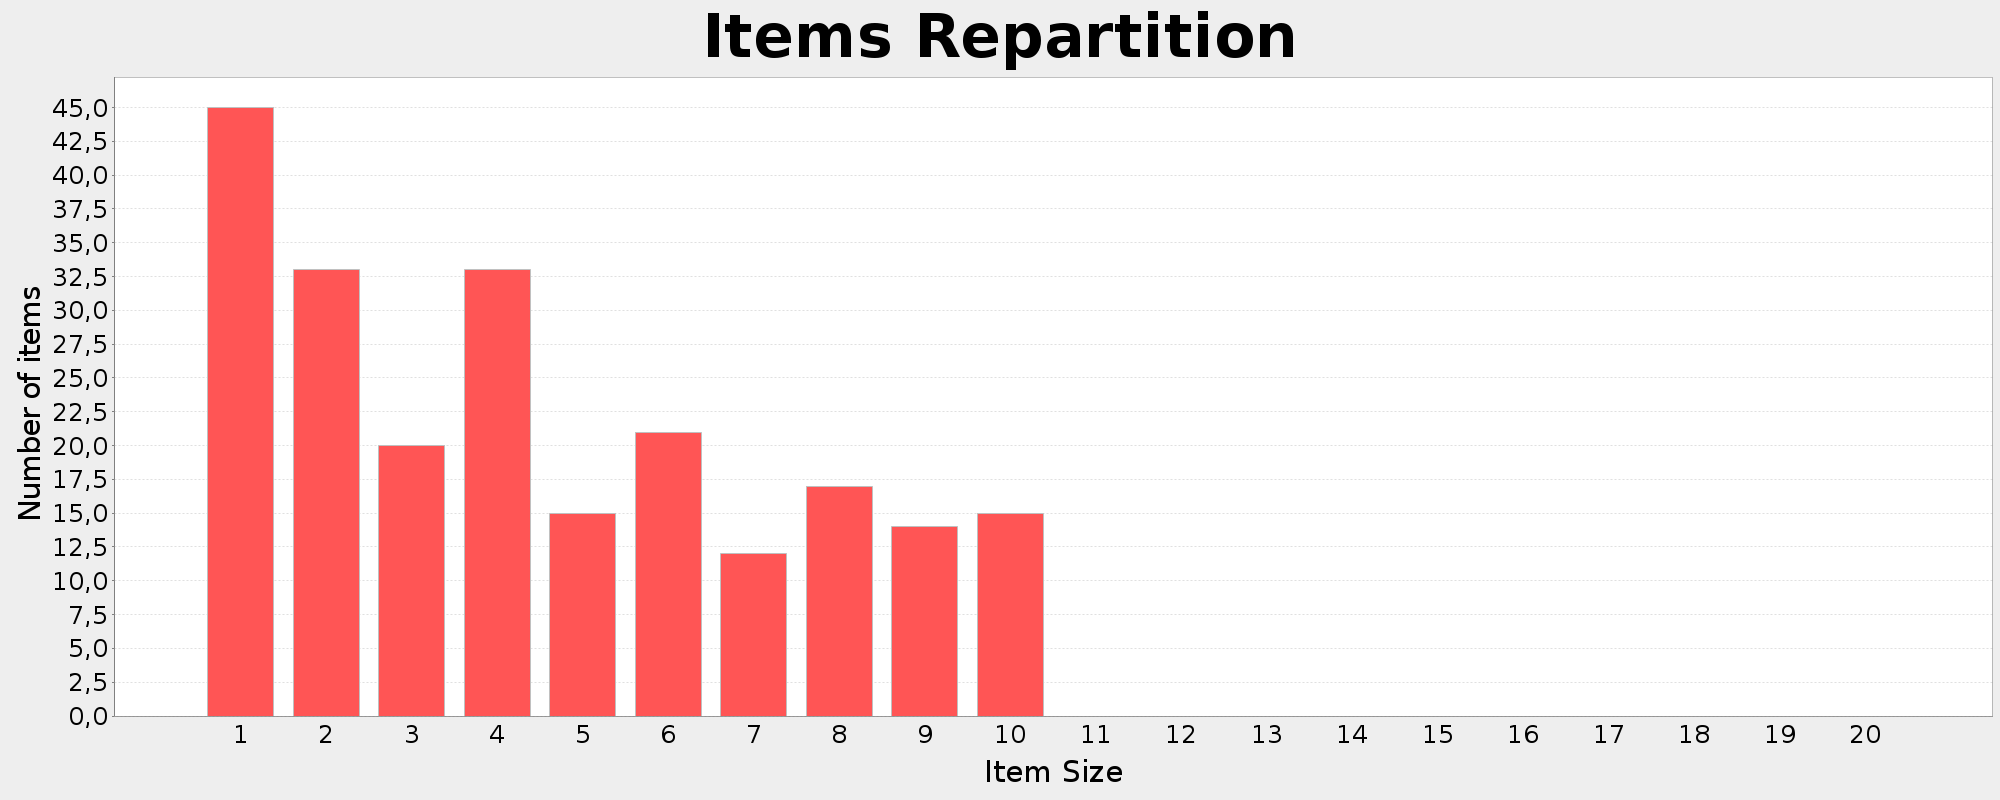
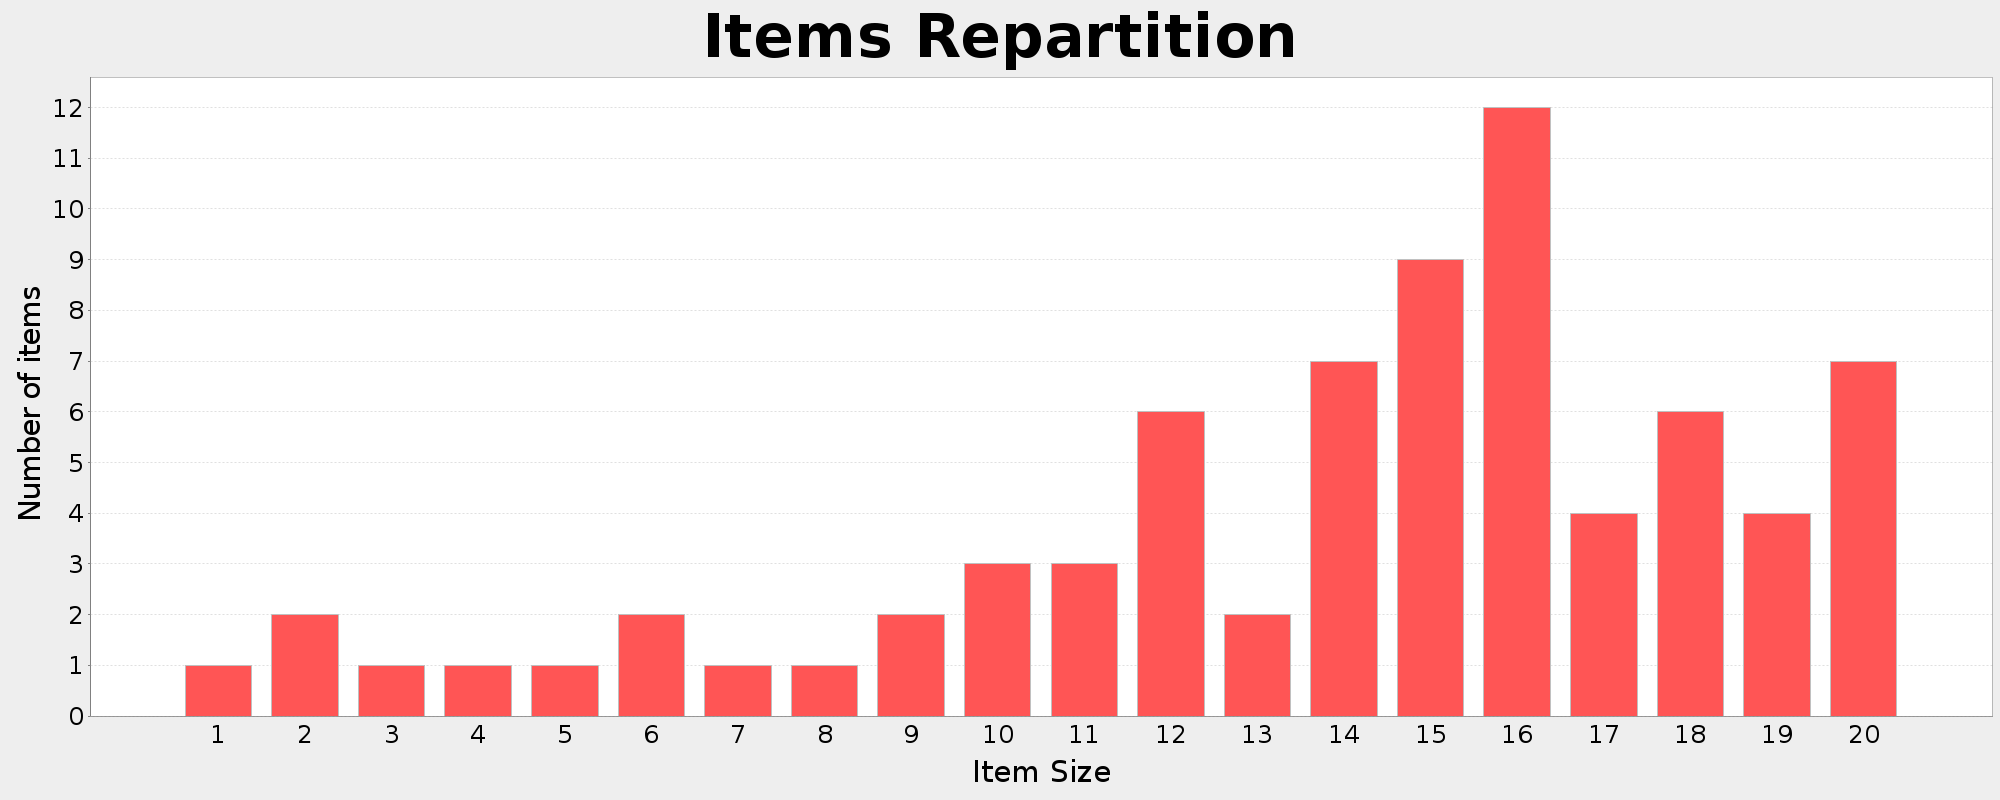
_

Changed region(s): [[0.093, 0.125, 0.961, 1.0], [0.031, 0.125, 0.062, 0.9062]]

diff --git a/CeiCloud/src/VSCIFP/gens/LinearVSCIFPGenerator.java b/CeiCloud/src/VSCIFP/gens/LinearVSCIFPGenerator.java
@@ -10,9 +10,9 @@ import VSCIFP.VSCIFP;
 import VSCIFP.VSCIFPInstance;
 import VSCIFP.VSCIFPSolution;
 import VSCIFP.algs.Item;
+import VSCIFP.algs.SolutionItem;
 
 import common.Utils;
-import common.VizUtils;
 import common.problem.InputDataException;
 
 public class LinearVSCIFPGenerator extends VSCIFPGenerator{
@@ -27,56 +27,56 @@ public class LinearVSCIFPGenerator extends VSCIFPGenerator{
 	public VSCIFPInstance generateInstance() throws InputDataException {
 		instanceCount++;
 		//USES FIRSTFIT FOR NOW !
-		VSCIFPInstance i = new VSCIFPInstance(getProblem());
-		i.setOptimalSolution(new VSCIFPSolution(null, i));
+		VSCIFPInstance ins = new VSCIFPInstance(getProblem());
+		ins.setOptimalSolution(new VSCIFPSolution(null, ins));
 		
 		//For the largest bin, capacity = cost = maxBinCapacity
-		i.binTypes.add(new BinType(getProblem().getMaxBinCapacity(), getProblem().getMaxBinCapacity()));
+		ins.binTypes.add(new BinType(getProblem().getMaxBinCapacity(), getProblem().getMaxBinCapacity()));
 		//For other bins, 
-		while (i.binTypes.size() < getProblem().getTypesOfBinCount()) { // TODO Can last a while !
+		while (ins.binTypes.size() < getProblem().getTypesOfBinCount()) { // TODO Can last a while !
 			int n = nextInt(1, getProblem().getMaxBinCapacity() - 1); // uniform number in [1, maxBinCapacity - 1].
-			i.binTypes.add(new BinType(n, n)); //Linear cost
+			ins.binTypes.add(new BinType(n, n)); //Linear cost
 		}
 		
 		//On ouvre une bin de chaque type.
 		List<Bin> openBins = new ArrayList<>();
-		for (BinType type : i.binTypes) {
+		for (BinType type : ins.binTypes) {
 			openBins.add(new Bin(type));
 		}
-		i.getOptimalSolution().setOpenBins(openBins);
+		ins.getOptimalSolution().setOpenBins(openBins);
 		
-		System.out.println(i.binTypes);
+		System.out.println(ins.binTypes);
 
 		//Cycling bounded Iterator used for openBins
-		Iterator<Bin> openBinsIt = Utils.oneCycleIt(i.getOptimalSolution().getOpenBins(), 0);
+		Iterator<Bin> openBinsIt = Utils.oneCycleIt(ins.getOptimalSolution().getOpenBins(), 0);
 
 		//On remplit les sacs avec des objets jusqu'à ce que le prix du packing vale getMaxPackingCost().
 		fill:
-			while(i.getOptimalSolution().getCost() < getMaxPackingCost()){
+			while(ins.getOptimalSolution().getCost() < getMaxPackingCost()){
 				//Carry on...
 				//On insere des objets dans des boites online. Avec NF. On vise 100 boites utilisées.
-				final Item item = new Item(nextInt(getProblem().getItemMinSize(), getProblem().getItemMaxSize()));
+				final SolutionItem item = new SolutionItem(nextInt(getProblem().getItemMinSize(), getProblem().getItemMaxSize()));
 
 				//Let's fill those bins...
 				while (openBinsIt.hasNext()) { //Always the case (cycling), but ok...
 					Bin bin = (Bin) openBinsIt.next();
 					if (bin.fits(item)) {
-						i.getOptimalSolution().addItemToBinForOptimalSolutionBuilding(bin, item);
+						ins.getOptimalSolution().addItemToBinForOptimalSolutionBuilding(bin, item);
 						//If full, close it:
 						if (bin.isFull())
 						{
-							i.getOptimalSolution().addClosedBin(bin.copyToNewBin()); //Clears current bin. add a copy of it to the closed bins list.
+							ins.getOptimalSolution().addClosedBin(bin.copyToNewBin()); //Clears current bin. add a copy of it to the closed bins list.
 						}
 						//Reinitialize iterator to same position+1. Attention! indexOf is ok because openbins is small !
-						openBinsIt = Utils.oneCycleIt(i.getOptimalSolution().getOpenBins(), i.getOptimalSolution().getOpenBins().indexOf(bin)+1);
+						openBinsIt = Utils.oneCycleIt(ins.getOptimalSolution().getOpenBins(), ins.getOptimalSolution().getOpenBins().indexOf(bin)+1);
 						continue fill;
 					}
 				}
 
 				//oops, no bin found for this item, then close & flush bin of bestBinType.
-				BinType bestBinType = getBestBinForItem(i, item);
+				BinType bestBinType = getBestBinForItem(ins, item);
 				//Look for open bin of that type to close it.
-				openBinsIt = i.getOptimalSolution().getOpenBins().iterator();	//Reset Iterator to a normal it.
+				openBinsIt = ins.getOptimalSolution().getOpenBins().iterator();	//Reset Iterator to a normal it.
 				closeBin:
 					while (openBinsIt.hasNext()){
 						Bin bin = openBinsIt.next();
@@ -86,13 +86,13 @@ public class LinearVSCIFPGenerator extends VSCIFPGenerator{
 							if (!bin.isEmpty()) {
 								if (!bin.isFull()){
 									//Fill it with an item.
-									i.getOptimalSolution().addItemToBinForOptimalSolutionBuilding(bin, new Item(spaceLeft));
+									ins.getOptimalSolution().addItemToBinForOptimalSolutionBuilding(bin, new SolutionItem(spaceLeft));
 									//Bin is full
-									i.getOptimalSolution().addClosedBin(bin.copyToNewBin()); //Clears current bin. adds a copy of it to the closed bins list.
+									ins.getOptimalSolution().addClosedBin(bin.copyToNewBin()); //Clears current bin. adds a copy of it to the closed bins list.
 								}
 							}
 							//Reinitialize iterator to same position+1. Attention! indexOf is ok because openbins is small !
-							openBinsIt = Utils.oneCycleIt(i.getOptimalSolution().getOpenBins(), i.getOptimalSolution().getOpenBins().indexOf(bin)+1);
+							openBinsIt = Utils.oneCycleIt(ins.getOptimalSolution().getOpenBins(), ins.getOptimalSolution().getOpenBins().indexOf(bin)+1);
 							continue fill;	//We added the new needed bin and put the item in it.
 						}
 					}
@@ -100,27 +100,40 @@ public class LinearVSCIFPGenerator extends VSCIFPGenerator{
 				throw new InputDataException("Code should not be reached");
 			}
 		//Fill procedure terminated, close (open & non-empty) bins.
-		for (Bin bin : i.getOptimalSolution().getOpenBins()) {
+		for (Bin bin : ins.getOptimalSolution().getOpenBins()) {
 			if (!bin.isEmpty()) {
 				if (!bin.isFull()){
 					//Fill it with items.
 					while (bin.fits(new Item(getProblem().getItemMaxSize()))){
-						i.getOptimalSolution().addItemToBinForOptimalSolutionBuilding(bin, new Item(nextInt(getProblem().getItemMinSize(), getProblem().getItemMaxSize())));
+						ins.getOptimalSolution().addItemToBinForOptimalSolutionBuilding(bin, new SolutionItem(nextInt(getProblem().getItemMinSize(), getProblem().getItemMaxSize())));
 					}
 					if (!bin.isFull()){
 						int spaceLeft = bin.getSpaceLeft();
-						i.getOptimalSolution().addItemToBinForOptimalSolutionBuilding(bin, new Item(spaceLeft));
+						ins.getOptimalSolution().addItemToBinForOptimalSolutionBuilding(bin, new SolutionItem(spaceLeft));
 					}
 				}
-				i.getOptimalSolution().getBins().add(bin);
+				ins.getOptimalSolution().getBins().add(bin);
 				bin.close();
 			}
 		}
 
-		System.out.println(i);
-		i.displayBinTypeRepartition(instanceCount);
-		VizUtils.drawHistogramItemsRepartition(i.getItemSizes(), getProblem().getItemMinSize(), getProblem().getItemMaxSize(), "", "-"+instanceCount);
-		return i;
+		System.out.println(ins);
+		ins.displayBinTypeRepartition(instanceCount);
+//		VizUtils.drawHistogramItemsRepartition(ins.getItemSizes(), getProblem().getItemMinSize(), getProblem().getItemMaxSize(), "", "-"+instanceCount);
+		
+		//Paste items together in Items list.
+		int i1 = getRandom().nextInt(ins.getItems().size());
+		SolutionItem item1 = (SolutionItem) ins.getItems().remove(i1);
+		int i2 = getRandom().nextInt(ins.getItems().size());
+		SolutionItem item2 = (SolutionItem) ins.getItems().remove(i2);
+		
+		SolutionItem parent = new SolutionItem(item1.getSize()+item2.getSize());
+		parent.setFilsG(item1);
+		parent.setFilsD(item2);
+		
+		ins.getItems().add(parent);
+		
+		return ins;
 	}
 	
 	

diff --git a/CeiCloud/src/VSCIFP/VSCIFPSolution.java b/CeiCloud/src/VSCIFP/VSCIFPSolution.java
@@ -1,14 +1,13 @@
 package VSCIFP;
 
 import java.util.ArrayList;
-import java.util.Collections;
 import java.util.HashSet;
 import java.util.List;
 import java.util.Set;
-import java.util.TreeSet;
 
 import VSCIFP.algs.Item;
 import VSCIFP.algs.SolutionItem;
+
 import common.Utils;
 import common.algorithm.IAlgorithm;
 import common.problem.IOptimalCostAwareSolution;
@@ -73,7 +72,7 @@ public class VSCIFPSolution extends AbstractSolution<VSCIFP, VSCIFPInstance> imp
 	 * @param bin
 	 * @param item
 	 */
-	public void addItemToBinForOptimalSolutionBuilding(Bin bin, Item item) {
+	public void addItemToBinForOptimalSolutionBuilding(Bin bin, SolutionItem item) {
 		try {
 			if (bin.isEmpty() & item.getSize() != 0) {
 				//When we need to put the first item in the bin

diff --git a/CeiCloud/src/VSCIFP/algs/SolutionItem.java b/CeiCloud/src/VSCIFP/algs/SolutionItem.java
@@ -18,6 +18,11 @@ public class SolutionItem extends Item{
 	private SolutionItem filsG;
 	private SolutionItem filsD;
 	
+	public SolutionItem(int size) {
+		super(size);
+		// TODO Auto-generated constructor stub
+	}
+
 	/**
 	 * From original item. To create the root SolutionItem
 	 * 
@@ -123,6 +128,26 @@ public class SolutionItem extends Item{
 		}
 		
 		return leaves;
+	}
+
+	public SolutionItem getFilsG() {
+		return filsG;
+	}
+
+	public void setFilsG(SolutionItem filsG) {
+		this.filsG = filsG;
+	}
+
+	public SolutionItem getFilsD() {
+		return filsD;
+	}
+
+	public void setFilsD(SolutionItem filsD) {
+		this.filsD = filsD;
+	}
+
+	public void setTimesCut(int timesCut) {
+		this.timesCut = timesCut;
 	}
 	
 }

diff --git a/CeiCloud/src/VSCIFP/Main.java b/CeiCloud/src/VSCIFP/Main.java
@@ -11,7 +11,7 @@ import common.solution.OptimalCostNotKnownException;
 
 public class Main {
 	public static void main(String[] args) throws InputDataException, OptimalCostNotKnownException {
-		VSCIFP p = new VSCIFP(10, 3, 1, 20, 1);
+		VSCIFP p = new VSCIFP(100, 3, 10, 20, 1);
 //		MonotoneVSCIFPGenerator gen = new MonotoneVSCIFPGenerator(p);
 		LinearVSCIFPGenerator gen = new LinearVSCIFPGenerator(p, 1000);
 		List<VSCIFPInstance> instances = gen.generateInstances(10);
